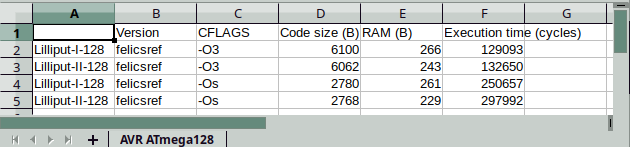
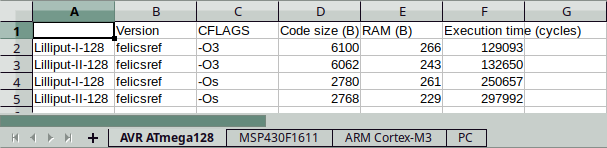
Describe more of felics-publish
Also tweak phrasing here and there. Shorten felics-compare example so
that it fits better.

diff --git a/documentation/nist-lwc-workshop-2019/slides.tex b/documentation/nist-lwc-workshop-2019/slides.tex
@@ -190,7 +190,7 @@
 \begin{frame}
   \frametitle{FELICS-AE}
 
-  Started off FELICS v1.1.0 to compare \textsc{Lilliput-AE} to CAESAR's final ``lightweight'' portfolio
+  Started off FELICS v1.1.0 to compare \textsc{Lilliput-AE} to CAESAR's final lightweight portfolio (use-case 1)
 
   {\url{https://gitlab.inria.fr/minier/felics-ae}}
 \end{frame}
@@ -200,14 +200,14 @@
 \begin{frame}
   \frametitle{\texttt{crypto\_aead}-compliant algorithms}
 
-  Attempt to minimize the amount of work to add algorithms that comply with the API
+  Minimize work needed to add algorithms that comply with the API
 
   % For example, FELICS forbids some filenames to prevent clashes with framework plumbing (e.g. cipher.c, constants.h); we circumvented this by moving all FELICS headers into a dedicated felics folder (to "namespace" them) and renaming support files, so that integrators do not need to rename algorithm files.
 
-  Not quite ``drop-in'' yet: still many idiosyncrasies from original FELICS
+  Not quite ``drop-in'' yet: still some idiosyncrasies from original FELICS
 
   \begin{itemize}
-  \item \texttt{ROM\_...}/\texttt{RAM\_...} macros to specify alignment \& storage
+  \item \texttt{ROM\_DATA\_...}/\texttt{RAM\_DATA\_...} macros to specify alignment \& storage
   \item split files for encryption/decryption/common code
   \end{itemize}
 
@@ -281,11 +281,6 @@ Lilliput-I-192 on AVR (vfelicsref with -Os)
 	code_size: \textcolor{green}{-10.47%} (3268 $\searrow$ 2926)
 	code_ram: \textcolor{green}{-50.71%} (562 $\searrow$ 277)
 	code_time: \textcolor{red}{+36.73%} (230309 $\nearrow$ 314893)
-
-Lilliput-I-256 on AVR (vfelicsref with -Os)
-	code_size: \textcolor{green}{-8.25%} (3392 $\searrow$ 3112)
-	code_ram: \textcolor{green}{-53.19%} (626 $\searrow$ 293)
-	code_time: \textcolor{red}{+40.83%} (290363 $\nearrow$ 408907)
 \end{Verbatim}
 
 \end{frame}
@@ -295,7 +290,15 @@ Lilliput-I-256 on AVR (vfelicsref with -Os)
 
   \texttt{\$ ./scripts/felics-publish foo.json -o foo.\$format}
 
-  % TODO: describe options
+  Options:
+
+  \begin{description}
+  \item[\texttt{-{}-sort-by}:] how setups are ordered
+  \item[\texttt{-{}-filter}:] which setups are included
+  \item[\texttt{-{}-info}:] which metadata and metrics are displayed
+  \item[\texttt{-{}-table-label}:] anchor for documents supporting cross-references
+  \item[\texttt{-{}-table-caption}:] additional text to describe the data set
+  \end{description}
 
 \end{frame}
 
@@ -318,9 +321,13 @@ Lilliput-I-256 on AVR (vfelicsref with -Os)
     \label{table:bench-soft-128-avr}
   \end{table}
 
+  % One table per architecture.
+
   To spreadsheet:
 
   \includegraphics[width=\textwidth]{figures/felics-publish-ods.png}
+
+  % One sheet (tab) per architecture.
 
 \end{frame}
 
